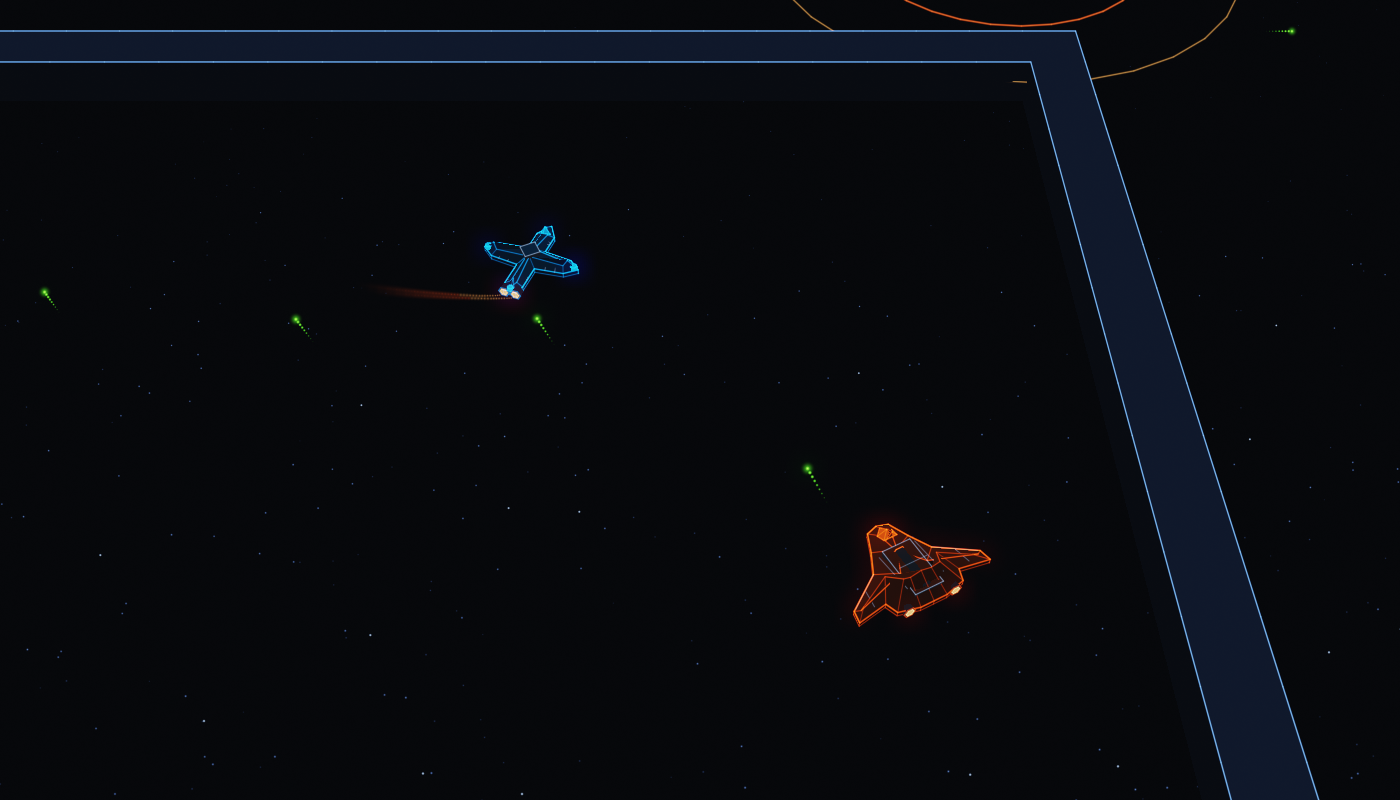
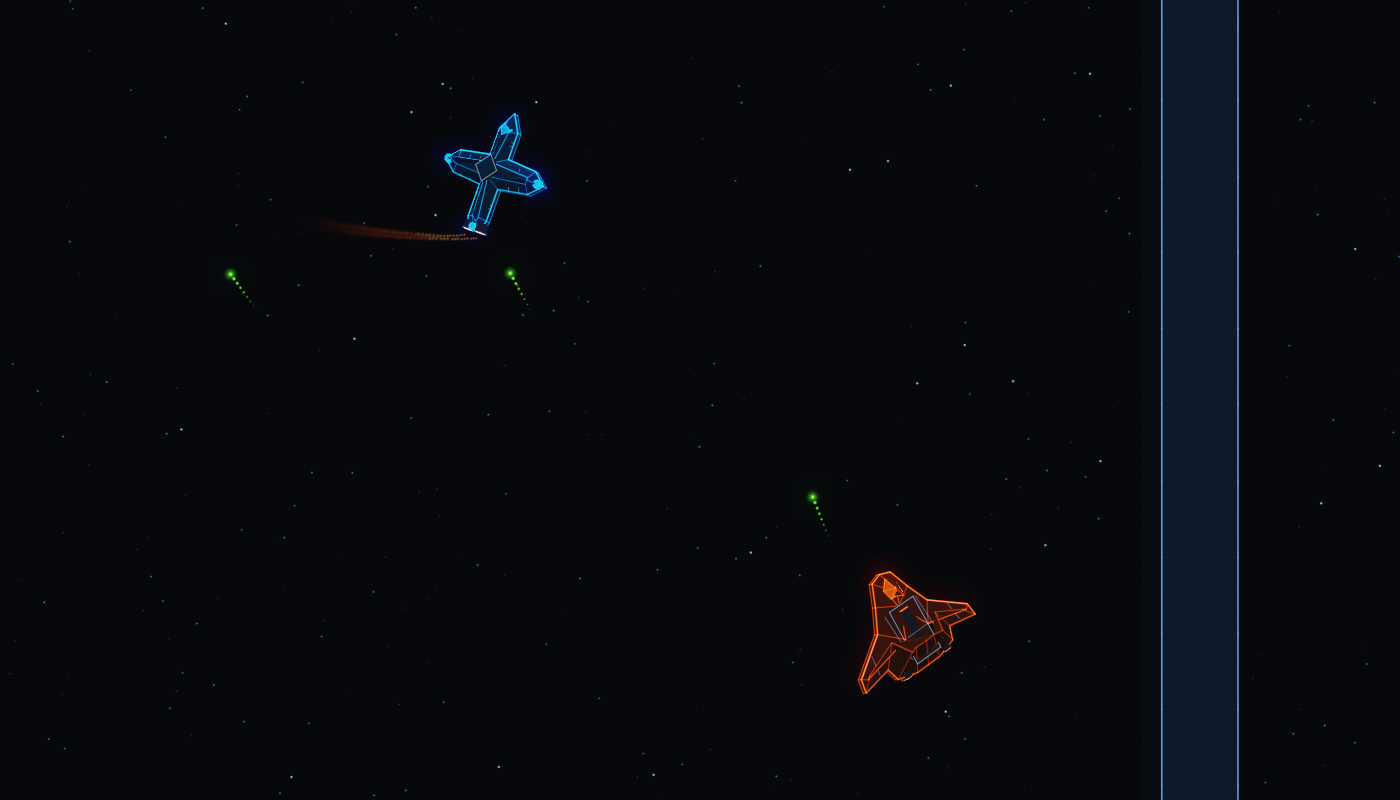
Draw the mock's fights from overhead, and let hulls bank
Every battle frame is straight down now. That is where the game is played from
and the extra dimension does not ask to move the camera off it: a perspective
lens pointed at the floor gives the sides of everything away from the middle of
the screen, so a wall reads as a slab you can be behind and a hull away from
centre shows its flank. Only the roster page is still taken from an angle,
because a catalog is allowed to be.

Ships lean into their turns, using the rule the client already has. `ship_roll`
in arena.script reads a bank off the heading and hands it to `world.ship`,
which has nowhere to put it: a flat drawing has no axis to turn about, so it
scales the hull's local x by the cosine. `ship_bank` in arena3d.c is that
function's arithmetic to the digit, walking the recording's own heading history,
spent on a rotation about the ship's nose-to-tail axis instead of on a squash.

A second attitude sits behind a knob and off by default. A hull can hold a
heading while its momentum carries it sideways, which is the one attitude a
turn rate cannot see, and leaning into that drift is a guess rather than an
existing rule.

Neither touches the simulation, per decision 5: the core builds a box from the
world-axis bounds of an oriented rectangle at the ship's heading, and a rolled
hull's box is whatever the core says it is. `make check` still passes.

Claude-Session: https://claude.ai/code/session_01PbJnkGoMw1x9JLjekgGjrs

diff --git a/.design/ships3d/arena3d.c b/.design/ships3d/arena3d.c
@@ -234,6 +234,87 @@ static void build_arena(const capture *c, mesh *m, glow_line **ln, int *lnn,
 
 /* --- the frame ------------------------------------------------------------ */
 
+/* --- attitude -------------------------------------------------------------
+ *
+ * The bank is not new. `ship_roll` in client/arena/arena.script already reads
+ * one off the heading and hands it to `world.ship`, which fakes it by scaling
+ * the hull's local x by its cosine: a lean drawn as a squash, because a flat
+ * drawing has no axis to turn about. The numbers below are that function's,
+ * to the digit, so what changes in three dimensions is only what the number
+ * is spent on.
+ *
+ * Read off the heading rather than off the buttons, because buttons are yours
+ * alone and everybody's ship should lean into a turn. Smoothed on about a
+ * tenth of a second, since a remote heading arrives in snapshot steps and a
+ * raw difference is a spike and four zeroes.
+ *
+ * Purely visual, per decision 5. The core collides the world-axis box of an
+ * oriented rectangle in a plane; a rolled hull's box is whatever the core
+ * says it is, and nothing here is asking it to change.
+ */
+#define BANK_TAU 6.2831853f
+#define BANK_FULL_TURN 3.0f   /* rad/s of turn that earns the whole bank */
+#define BANK_MAX 0.95f        /* 54 degrees, past which a wing stops reading */
+#define BANK_SMOOTH 0.11f
+#define BANK_DT 0.01f         /* the core runs at 100 Hz and a frame is a tick */
+#define BANK_HISTORY 48       /* ticks of run-up, well past the smoothing */
+
+/* The slip is the proposal. A hull in this game can hold a heading while its
+ * momentum carries it sideways, which is the one attitude a turn rate cannot
+ * see: the nose is steady, so `ship_roll` reads zero, and the ship crabs
+ * across the screen flat. This leans it into the drift. */
+#define SLIP_FULL 2.6f        /* px a tick of sideways drift for the whole lean */
+#define SLIP_MAX 0.42f
+
+float ship_bank(const capture *c, int ship, int frame, float slip_gain) {
+    int f0 = frame - BANK_HISTORY;
+    float v = 0.0f, k, roll;
+    int f;
+    if (f0 < 1) f0 = 1;
+    for (f = f0; f <= frame; f++) {
+        int dh;
+        float rate;
+        if (ship >= c->ship_n[f] || ship >= c->ship_n[f - 1]) return 0.0f;
+        dh = (int)c->ships[f][ship].heading - (int)c->ships[f - 1][ship].heading;
+        if (dh > 32768) dh -= 65536;
+        else if (dh < -32768) dh += 65536;
+        /* A jump no rudder reaches inside a tick is a respawn or a seat handed
+         * to somebody new, and neither is a turn. */
+        if (dh > 4096 || dh < -4096) {
+            v = 0.0f;
+            continue;
+        }
+        rate = (float)dh / 65536.0f * BANK_TAU / BANK_DT;
+        v += (rate - v) * (1.0f - expf(-BANK_DT / BANK_SMOOTH));
+    }
+    k = v / BANK_FULL_TURN;
+    if (k > 1.0f) k = 1.0f;
+    else if (k < -1.0f) k = -1.0f;
+    roll = k * BANK_MAX;
+
+    if (slip_gain > 0.0f && frame >= 4 && ship < c->ship_n[frame - 4]) {
+        /* Sideways travel, measured against where the nose points. Positions
+         * are the only velocity a recording carries, and four ticks is enough
+         * to be a drift rather than a jitter. */
+        const cap_ship *now = &c->ships[frame][ship];
+        const cap_ship *was = &c->ships[frame - 4][ship];
+        float a = (float)now->heading / 65536.0f * BANK_TAU;
+        float vx = ((float)now->x - (float)was->x) / 256.0f / 4.0f;
+        float vy = ((float)now->y - (float)was->y) / 256.0f / 4.0f;
+        /* The nose in sim space, where y runs south and zero heading is north,
+         * and the beam ninety degrees clockwise of it. */
+        float rx = cosf(a), ry = sinf(a);
+        float slip = vx * rx + vy * ry;
+        float s = slip / SLIP_FULL;
+        if (s > 1.0f) s = 1.0f;
+        else if (s < -1.0f) s = -1.0f;
+        roll += s * SLIP_MAX * slip_gain;
+    }
+    if (roll > BANK_MAX) roll = BANK_MAX;
+    else if (roll < -BANK_MAX) roll = -BANK_MAX;
+    return roll;
+}
+
 static v3 ship_pos(const cap_ship *s) {
     return vec((float)s->x / 256.0f, -(float)s->y / 256.0f, 0.0f);
 }
@@ -273,7 +354,12 @@ unsigned char *battle_frame(const capture *c, const hull3d *hulls, shot_opts o) 
     eye = add(focus, vec(o.cam.dist * cosf(o.cam.tilt) * sinf(o.cam.turn),
                          -o.cam.dist * cosf(o.cam.tilt) * cosf(o.cam.turn),
                          o.cam.dist * sinf(o.cam.tilt)));
-    view = mat_look(eye, focus, vec(0, 0, 1));
+    /* Straight down, the world's up is the view direction and mat_look has no
+     * side to cross against. Hand it the direction that reads as up on the
+     * screen instead, which is the arena's north. */
+    view = mat_look(eye, focus,
+                    o.cam.tilt > 1.52f ? vec(sinf(o.cam.turn), cosf(o.cam.turn), 0.0f)
+                                       : vec(0, 0, 1));
     vp = mat_mul(proj, view);
 
     memset(&lit, 0, sizeof lit);
@@ -313,7 +399,8 @@ unsigned char *battle_frame(const capture *c, const hull3d *hulls, shot_opts o) 
         const hull3d *h = &hulls[(s->team & 1) * 7 + s->cls % 7];
         mat4 model;
         if (!s->alive) continue;
-        model = mat_trs(ship_pos(s), (float)s->heading / 65536.0f, 1.0f);
+        model = mat_ship(ship_pos(s), (float)s->heading / 65536.0f,
+                         o.bank * ship_bank(c, i, o.frame, o.slip), 0.0f, 1.0f);
         draw_mesh(t, &h->body, model, vp, eye, &lit);
         for (k = 0; k < h->line_n; k++) {
             if (line_n + 1 > line_cap) {
@@ -341,7 +428,8 @@ unsigned char *battle_frame(const capture *c, const hull3d *hulls, shot_opts o) 
             mat4 model;
             int j;
             if (!s->alive || !s->thrust) continue;
-            model = mat_trs(ship_pos(s), (float)s->heading / 65536.0f, 1.0f);
+            model = mat_ship(ship_pos(s), (float)s->heading / 65536.0f,
+                         o.bank * ship_bank(c, i, o.frame, o.slip), 0.0f, 1.0f);
             for (j = 0; j < h->jet_n; j++) {
                 v3 p = mat_apply(model, add(h->jets[j], vec(0, -1.2f, 0)));
                 v3 q = p;
@@ -352,8 +440,10 @@ unsigned char *battle_frame(const capture *c, const hull3d *hulls, shot_opts o) 
                 if (f + 1 <= o.frame && i < c->ship_n[f + 1]
                     && c->ships[f + 1][i].alive) {
                     const cap_ship *nx = &c->ships[f + 1][i];
-                    q = mat_apply(mat_trs(ship_pos(nx),
-                                          (float)nx->heading / 65536.0f, 1.0f),
+                    q = mat_apply(mat_ship(ship_pos(nx),
+                                           (float)nx->heading / 65536.0f,
+                                           o.bank * ship_bank(c, i, f + 1, o.slip),
+                                           0.0f, 1.0f),
                                   add(h->jets[j], vec(0, -1.2f, 0)));
                 }
                 for (step = 0; step < 3; step++) {

diff --git a/.design/ships3d/main.c b/.design/ships3d/main.c
@@ -206,6 +206,47 @@ static int cmd_one(const char *out, int cls, int width, int height, float tilt,
     return 0;
 }
 
+/* One hull at a row of bank angles, from overhead. The client already banks a
+ * ship this much; what it cannot do is turn it, so it scales the hull's local
+ * x by the cosine instead. The left half of this row is that squash, the right
+ * half is the rotation, and the middle column is where the two agree. */
+static int cmd_bank(const char *out, int cls, int width, int height,
+                    float tilt, int enemy) {
+    static const float ROLL[] = {-0.95f, -0.62f, -0.30f, 0.0f, 0.30f, 0.62f, 0.95f};
+    const int n = (int)(sizeof ROLL / sizeof ROLL[0]);
+    target *t = target_new(width, height, 0);
+    mat4 proj, view, vp;
+    scene_light lit;
+    v3 eye, team = srgb(enemy ? COL_ENEMY : COL_FRIEND, 1.0f);
+    hull3d h;
+    unsigned char *rgb;
+    float focal = (float)height * 0.5f / tanf((float)(26.0 * M_PI / 360.0));
+    float dist = 150.0f;
+    int i;
+
+    hull3d_build(&h, cls, team);
+    hero_light(&lit, team);
+    target_clear(t, srgb(COL_BG, 1.0f));
+    proj = mat_perspective(26.0f, (float)width / (float)height, 1.0f, 4000.0f);
+    eye = vec(0.0f, -dist * cosf(tilt), dist * sinf(tilt));
+    view = mat_look(eye, vec(0, 0, 0),
+                    tilt > 1.52f ? vec(0, 1, 0) : vec(0, 0, 1));
+    vp = mat_mul(proj, view);
+    stars(t, vp, 500, 700.0f, 700.0f);
+    for (i = 0; i < n; i++) {
+        float gx = ((float)i - (float)(n - 1) * 0.5f) * 30.0f;
+        mat4 model = mat_ship(vec(gx, 0, 0), 0.0f, ROLL[i], 0.0f, 1.0f);
+        draw_hull(t, &h, model, vp, eye, &lit, focal);
+        plume(t, &h, model, vp, 0.8f);
+    }
+    rgb = resolve(t, 0.85f, 9.0f, 2.2f);
+    png_write(out, rgb, width, height);
+    free(rgb);
+    hull3d_free(&h);
+    target_free(t);
+    return 0;
+}
+
 static int cmd_obj(const char *dir) {
     int i;
     for (i = 0; i < hull3d_count(); i++) {
@@ -417,6 +458,10 @@ static int cmd_battle(int argc, char **argv) {
     o.cam.fov = 32.0f;
     o.trail_frames = 16;
     o.shadow = 1;
+    /* Bank ships with the client's own rule by default; the slip is a
+     * proposal and stays off unless asked for. */
+    o.bank = argc > 12 ? (float)atof(argv[12]) : 1.0f;
+    o.slip = argc > 13 ? (float)atof(argv[13]) : 0.0f;
     rgb = battle_frame(c, hulls, o);
     png_write(out, rgb, w, hgt);
     free(rgb);
@@ -553,6 +598,11 @@ int main(int argc, char **argv) {
                        argc > 6 ? (float)atof(argv[6]) : 0.95f,
                        argc > 7 ? (float)atof(argv[7]) : 0.0f, 0);
     if (!strcmp(cmd, "obj") && argc > 2) return cmd_obj(argv[2]);
+    if (!strcmp(cmd, "bank") && argc > 3)
+        return cmd_bank(argv[3], atoi(argv[2]), argc > 4 ? atoi(argv[4]) : 1600,
+                        argc > 5 ? atoi(argv[5]) : 400,
+                        argc > 6 ? (float)atof(argv[6]) : 1.4f,
+                        argc > 7 ? atoi(argv[7]) : 0);
     if (!strcmp(cmd, "fit")) return cmd_fit();
     if (!strcmp(cmd, "kills") && argc > 2)
         return cmd_kills(argv[2], argc > 3 ? atoi(argv[3]) : 8);

diff --git a/.design/ships3d/r3.c b/.design/ships3d/r3.c
@@ -92,6 +92,34 @@ mat4 mat_trs(v3 t, float yaw_turns, float scale) {
     return r;
 }
 
+/* Ship space is +y forward, +x right, +z up, so bank turns about +y and pitch
+ * about +x. Applied inboard of the heading: a hull banks around the direction
+ * it is pointing, not around the world's. */
+mat4 mat_ship(v3 t, float yaw_turns, float roll, float pitch, float scale) {
+    float a = (float)(-yaw_turns * 2.0 * M_PI);
+    float cz = cosf(a), sz = sinf(a);
+    float cr = cosf(roll), sr = sinf(roll);
+    float cp = cosf(pitch), sp = sinf(pitch);
+    /* Ry(roll) then Rx(pitch) then Rz(heading), column by column. */
+    float m00 = cr, m01 = 0.0f, m02 = sr;
+    float m10 = sr * sp, m11 = cp, m12 = -cr * sp;
+    float m20 = -sr * cp, m21 = sp, m22 = cr * cp;
+    mat4 o = mat_identity();
+    o.m[0] = (cz * m00 - sz * m10) * scale;
+    o.m[1] = (sz * m00 + cz * m10) * scale;
+    o.m[2] = m20 * scale;
+    o.m[4] = (cz * m01 - sz * m11) * scale;
+    o.m[5] = (sz * m01 + cz * m11) * scale;
+    o.m[6] = m21 * scale;
+    o.m[8] = (cz * m02 - sz * m12) * scale;
+    o.m[9] = (sz * m02 + cz * m12) * scale;
+    o.m[10] = m22 * scale;
+    o.m[12] = t.x;
+    o.m[13] = t.y;
+    o.m[14] = t.z;
+    return o;
+}
+
 v3 mat_apply(mat4 a, v3 p) {
     float x = a.m[0] * p.x + a.m[4] * p.y + a.m[8] * p.z + a.m[12];
     float y = a.m[1] * p.x + a.m[5] * p.y + a.m[9] * p.z + a.m[13];

diff --git a/.design/ships3d/arena3d.h b/.design/ships3d/arena3d.h
@@ -26,7 +26,17 @@ typedef struct {
     shot_cam cam;
     int trail_frames;
     int shadow;
+    /* How much of each attitude to draw. Bank is the client's own rule and
+     * ships at 1; slip is a proposal and ships at 0. Both are here as knobs
+     * because the point of the picture is the comparison. */
+    float bank;
+    float slip;
 } shot_opts;
+
+/* Radians of bank this ship is holding at this frame, worked out the way
+ * arena.script works it out: off the heading, smoothed, clamped. Exposed so a
+ * still can be drawn of one hull at a known lean. */
+float ship_bank(const capture *c, int ship, int frame, float slip_gain);
 
 /* `hulls` is fourteen meshes, a roster per side: the team color is mixed into
  * every fill at build time the way world.lua mixes it at draw time, so a hull

diff --git a/.design/ships3d/r3.h b/.design/ships3d/r3.h
@@ -41,6 +41,10 @@ mat4 mat_perspective(float fov_deg, float aspect, float znear, float zfar);
 mat4 mat_ortho(float l, float r, float b, float t, float n, float f);
 mat4 mat_look(v3 eye, v3 at, v3 up);
 mat4 mat_trs(v3 t, float yaw_turns, float scale);
+/* The same, with the two attitudes a hull is allowed to hold: bank about its
+ * own nose-to-tail axis and pitch about its beam. Both are radians and both
+ * are drawing only, per decision 5. */
+mat4 mat_ship(v3 t, float yaw_turns, float roll, float pitch, float scale);
 v3 mat_apply(mat4 a, v3 p);        /* point, w divided out */
 v3 mat_apply_dir(mat4 a, v3 d);    /* direction, no translation */
 

diff --git a/.design/ships3d/README.md b/.design/ships3d/README.md
@@ -81,11 +81,18 @@ drawing; `./mock3d kills <cap>` lists every kill with the frame a few ticks
 after it, because by the time a blast is big enough to notice it is mostly
 over.
 
+Every frame below is straight down. That is where this game is played from and
+nothing about the extra dimension asks to move the camera off it: a perspective
+lens pointed at the floor gives you the sides of everything away from the
+middle of the screen, so a wall reads as a slab you can be behind and a hull
+away from the center shows its flank. The roster page above is the one picture
+here taken from an angle, because a catalog is allowed to be.
+
 A kill on convoy, nine ticks after the bomb:
 
 ![a kill](renders/battle-kill.png)
 
-A Lattice and a Wedge on switchyard, from low enough to see they are solids:
+A Lattice and a Wedge on switchyard, both of them holding a bank:
 
 ![a duel](renders/battle-duel.png)
 
@@ -93,9 +100,47 @@ Four hulls and a fading blast on shoal:
 
 ![a melee](renders/battle-melee.png)
 
-Nearly overhead, which is where the game is actually played from:
+Breakwater, eight in the room:
 
 ![as played](renders/battle-topdown.png)
+
+## Ships lean, and already did
+
+A bank is not new here and is not a proposal. `ship_roll` in
+`client/arena/arena.script` already reads one off the heading and hands it to
+`world.ship`, which has nowhere to put it: a flat drawing has no axis to turn
+about, so it scales the hull's local x by the cosine. A lean drawn as a squash.
+
+So the meshes take that function's numbers to the digit and spend them on a
+rotation instead. Read off the heading rather than off the buttons, because
+buttons are yours alone and everybody's ship should lean into a turn; smoothed
+on about a tenth of a second, because a remote heading arrives in snapshot
+steps and a raw difference is a spike and four zeroes; three radians a second
+of turn earns the whole bank; the whole bank is 0.95 radians, which is 54
+degrees, past which a wing foreshortens faster than the eye reads it as a wing.
+
+![the bank](renders/bank-strip.png)
+
+The same tick, without the bank and with it:
+
+![without](renders/bank-off.png)
+![with](renders/bank-on.png)
+
+`ship_bank()` in `arena3d.c` is that rule, walking the recording's own heading
+history so a frame shows the lean a client watching those ticks would be
+holding.
+
+There is a second attitude in there, off by default, behind `slip`. A hull in
+this game can hold a heading while its momentum carries it sideways, and that
+is the one attitude a turn rate cannot see: the nose is steady, `ship_roll`
+reads zero, and the ship crabs across the screen flat. Leaning it into the
+drift is a guess and is drawn only when asked for, since decision 5 is what
+lets any of this be free, and the way to keep it free is to keep proposing
+attitudes rather than smuggling them in.
+
+Neither one touches the simulation. The core builds a collision box from the
+world-axis bounds of an oriented rectangle at the ship's heading, and a rolled
+hull's box is whatever the core says it is.
 
 ## Running it
 
@@ -107,7 +152,10 @@ make meshes          # write meshes/*.obj
 
 ./mock3d sheet renders/roster.png 1680 880 1.02 0
 ./mock3d hull 4 cipher.png 900 900 0.95 0
-./mock3d battle battle.vwcap 842 kill.png 1400 800 1.05 0
+./mock3d bank 0 strip.png 1680 380 1.42 0
+
+# w h tilt dist turn focus-x focus-y bank slip; tilt 1.5708 is straight down
+./mock3d battle battle.vwcap 842 kill.png 1400 800 1.5708 330 0 1003 -1554 1 0
 ```
 
 The renderer is C99 with zlib for the PNG and nothing else: triangles, a
